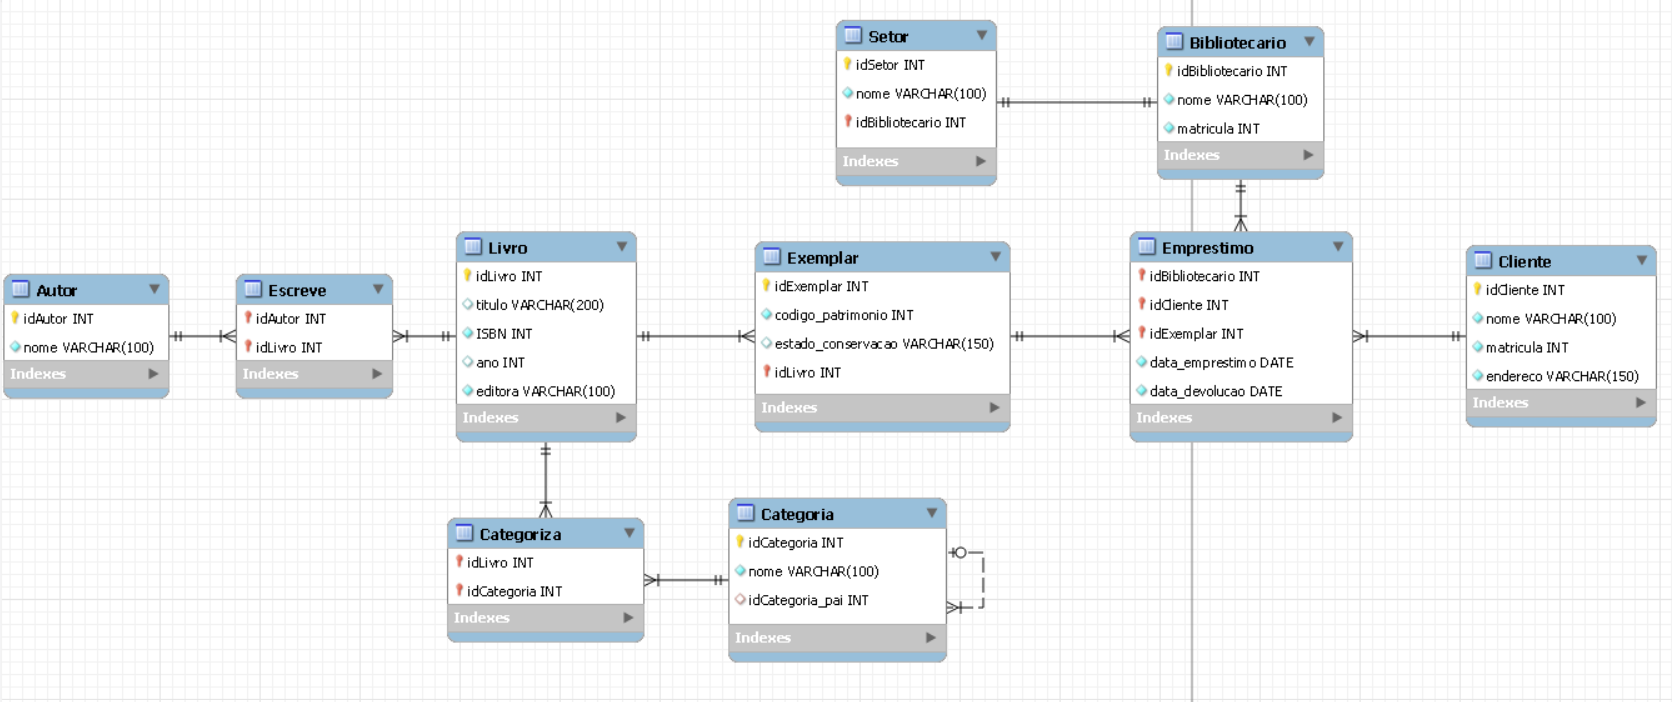
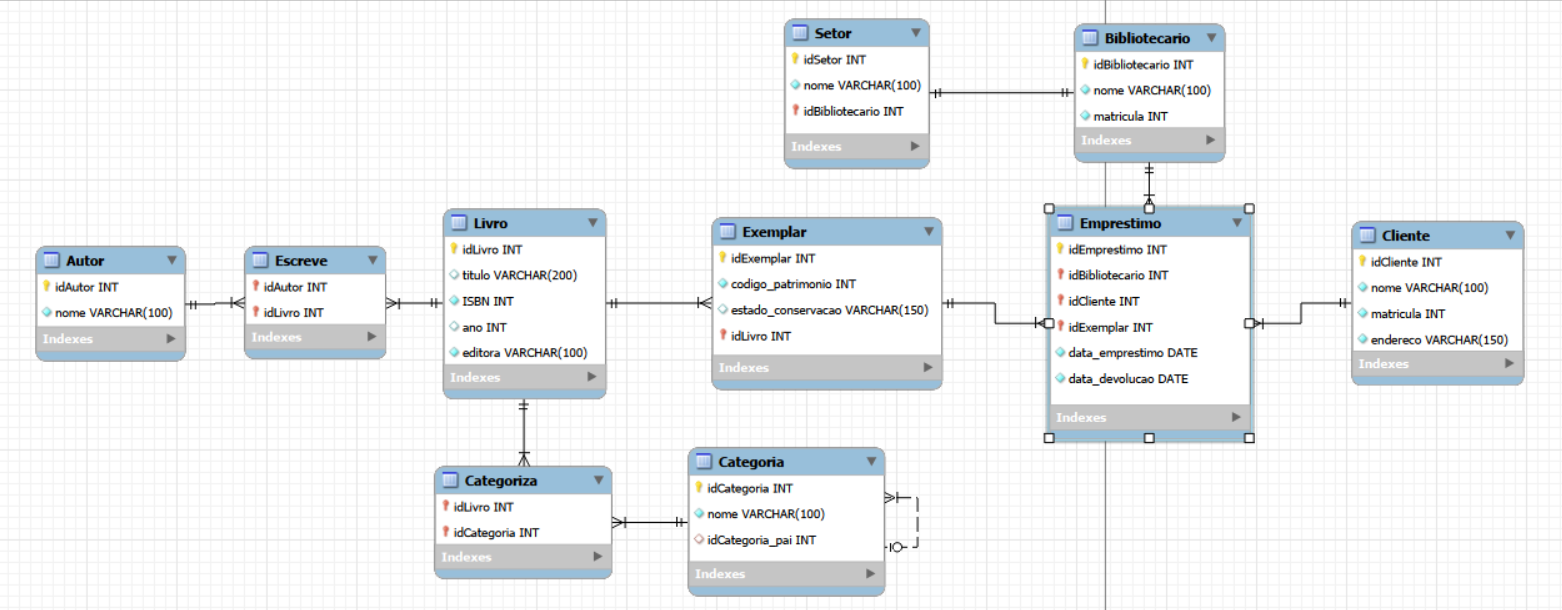
Criação das database e tabelas, pequenas correções na DER e README

Changed region(s): [[0.0, 0.0, 1.0, 1.0]]

diff --git a/README.md b/README.md
@@ -11,14 +11,14 @@ O sistema permite gerenciar livros, exemplares físicos, clientes, bibliotecári
 
 | Nome | Descrição | Atributos |
 |------|-----------|-----------|
-| **Livro** | informações gerais da obra | id_livro, titulo, ISBN, ano, editora |
-| **Exemplar** | cópia física de um livro | id_exemplar, id_livro, codigo_patrimonio, estado_conservacao |
-| **Autor** | autor(es) das obras | id_autor, nome |
-| **Cliente** | usuário que realiza empréstimos | id_cliente, nome, matricula, endereco |
-| **Bibliotecário** | funcionário responsável pelo atendimento | id_bibliotecario, nome, matricula_funcional, id_setor |
-| **Setor** | separações organizacional da biblioteca | id_setor, nome |
-| **Categoria** | classificação temática dos livros | id_categoria, nome, id_categoria_pai |
-| **Empréstimo** | registro de retirada/devolução | id_emprestimo, id_cliente, id_exemplar, id_bibliotecario, data_emprestimo, data_devolucao |
+| **Livro** | informações gerais da obra | idLivro, titulo, ISBN, ano, editora |
+| **Exemplar** | cópia física de um livro | idExemplar, idLivro, codigo_patrimonio, estado_conservacao |
+| **Autor** | autor(es) das obras | idAutor, nome |
+| **Cliente** | usuário que realiza empréstimos | idCliente, nome, matricula, endereco |
+| **Bibliotecário** | funcionário responsável pelo atendimento | idBibliotecario, nome, matricula |
+| **Setor** | separações organizacional da biblioteca | idSetor, nome, idBibliotecario |
+| **Categoria** | classificação temática dos livros | idCategoria, nome, idCategoria_pai |
+| **Empréstimo** | registro de retirada/devolução | idEmprestimo, idCliente, idExemplar, idBibliotecario, data_emprestimo, data_devolucao |
 
 ## Relacionamentos:
  
